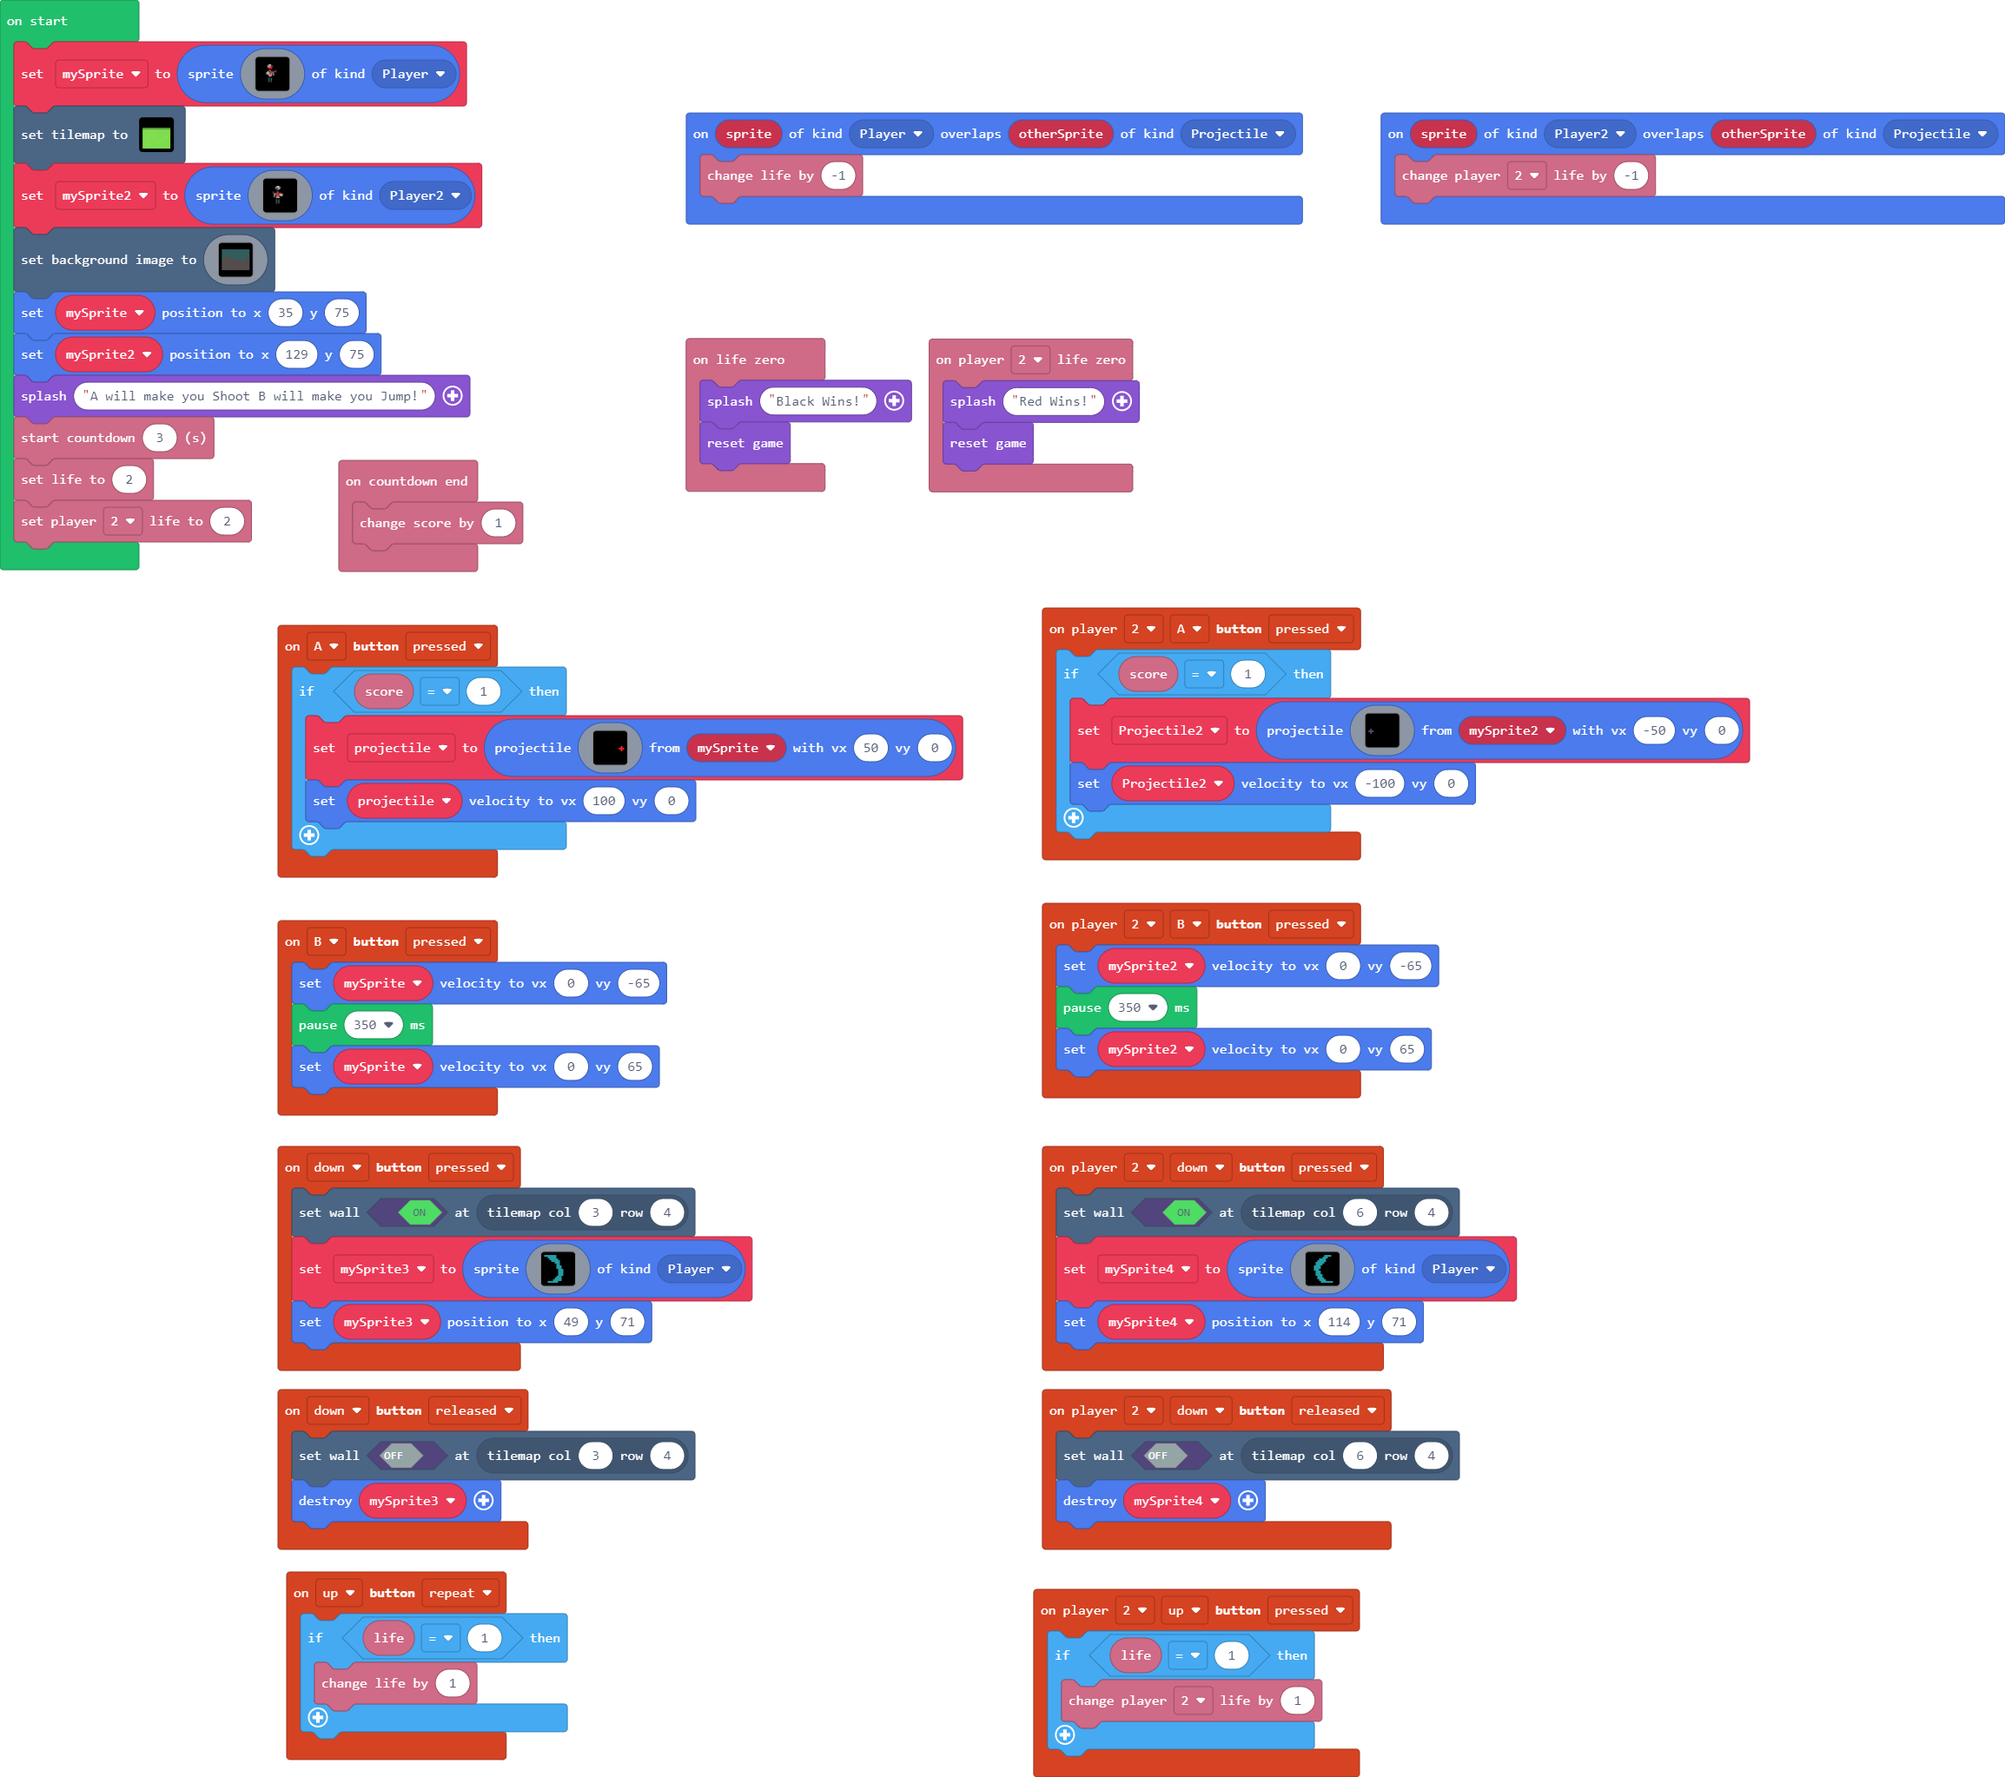
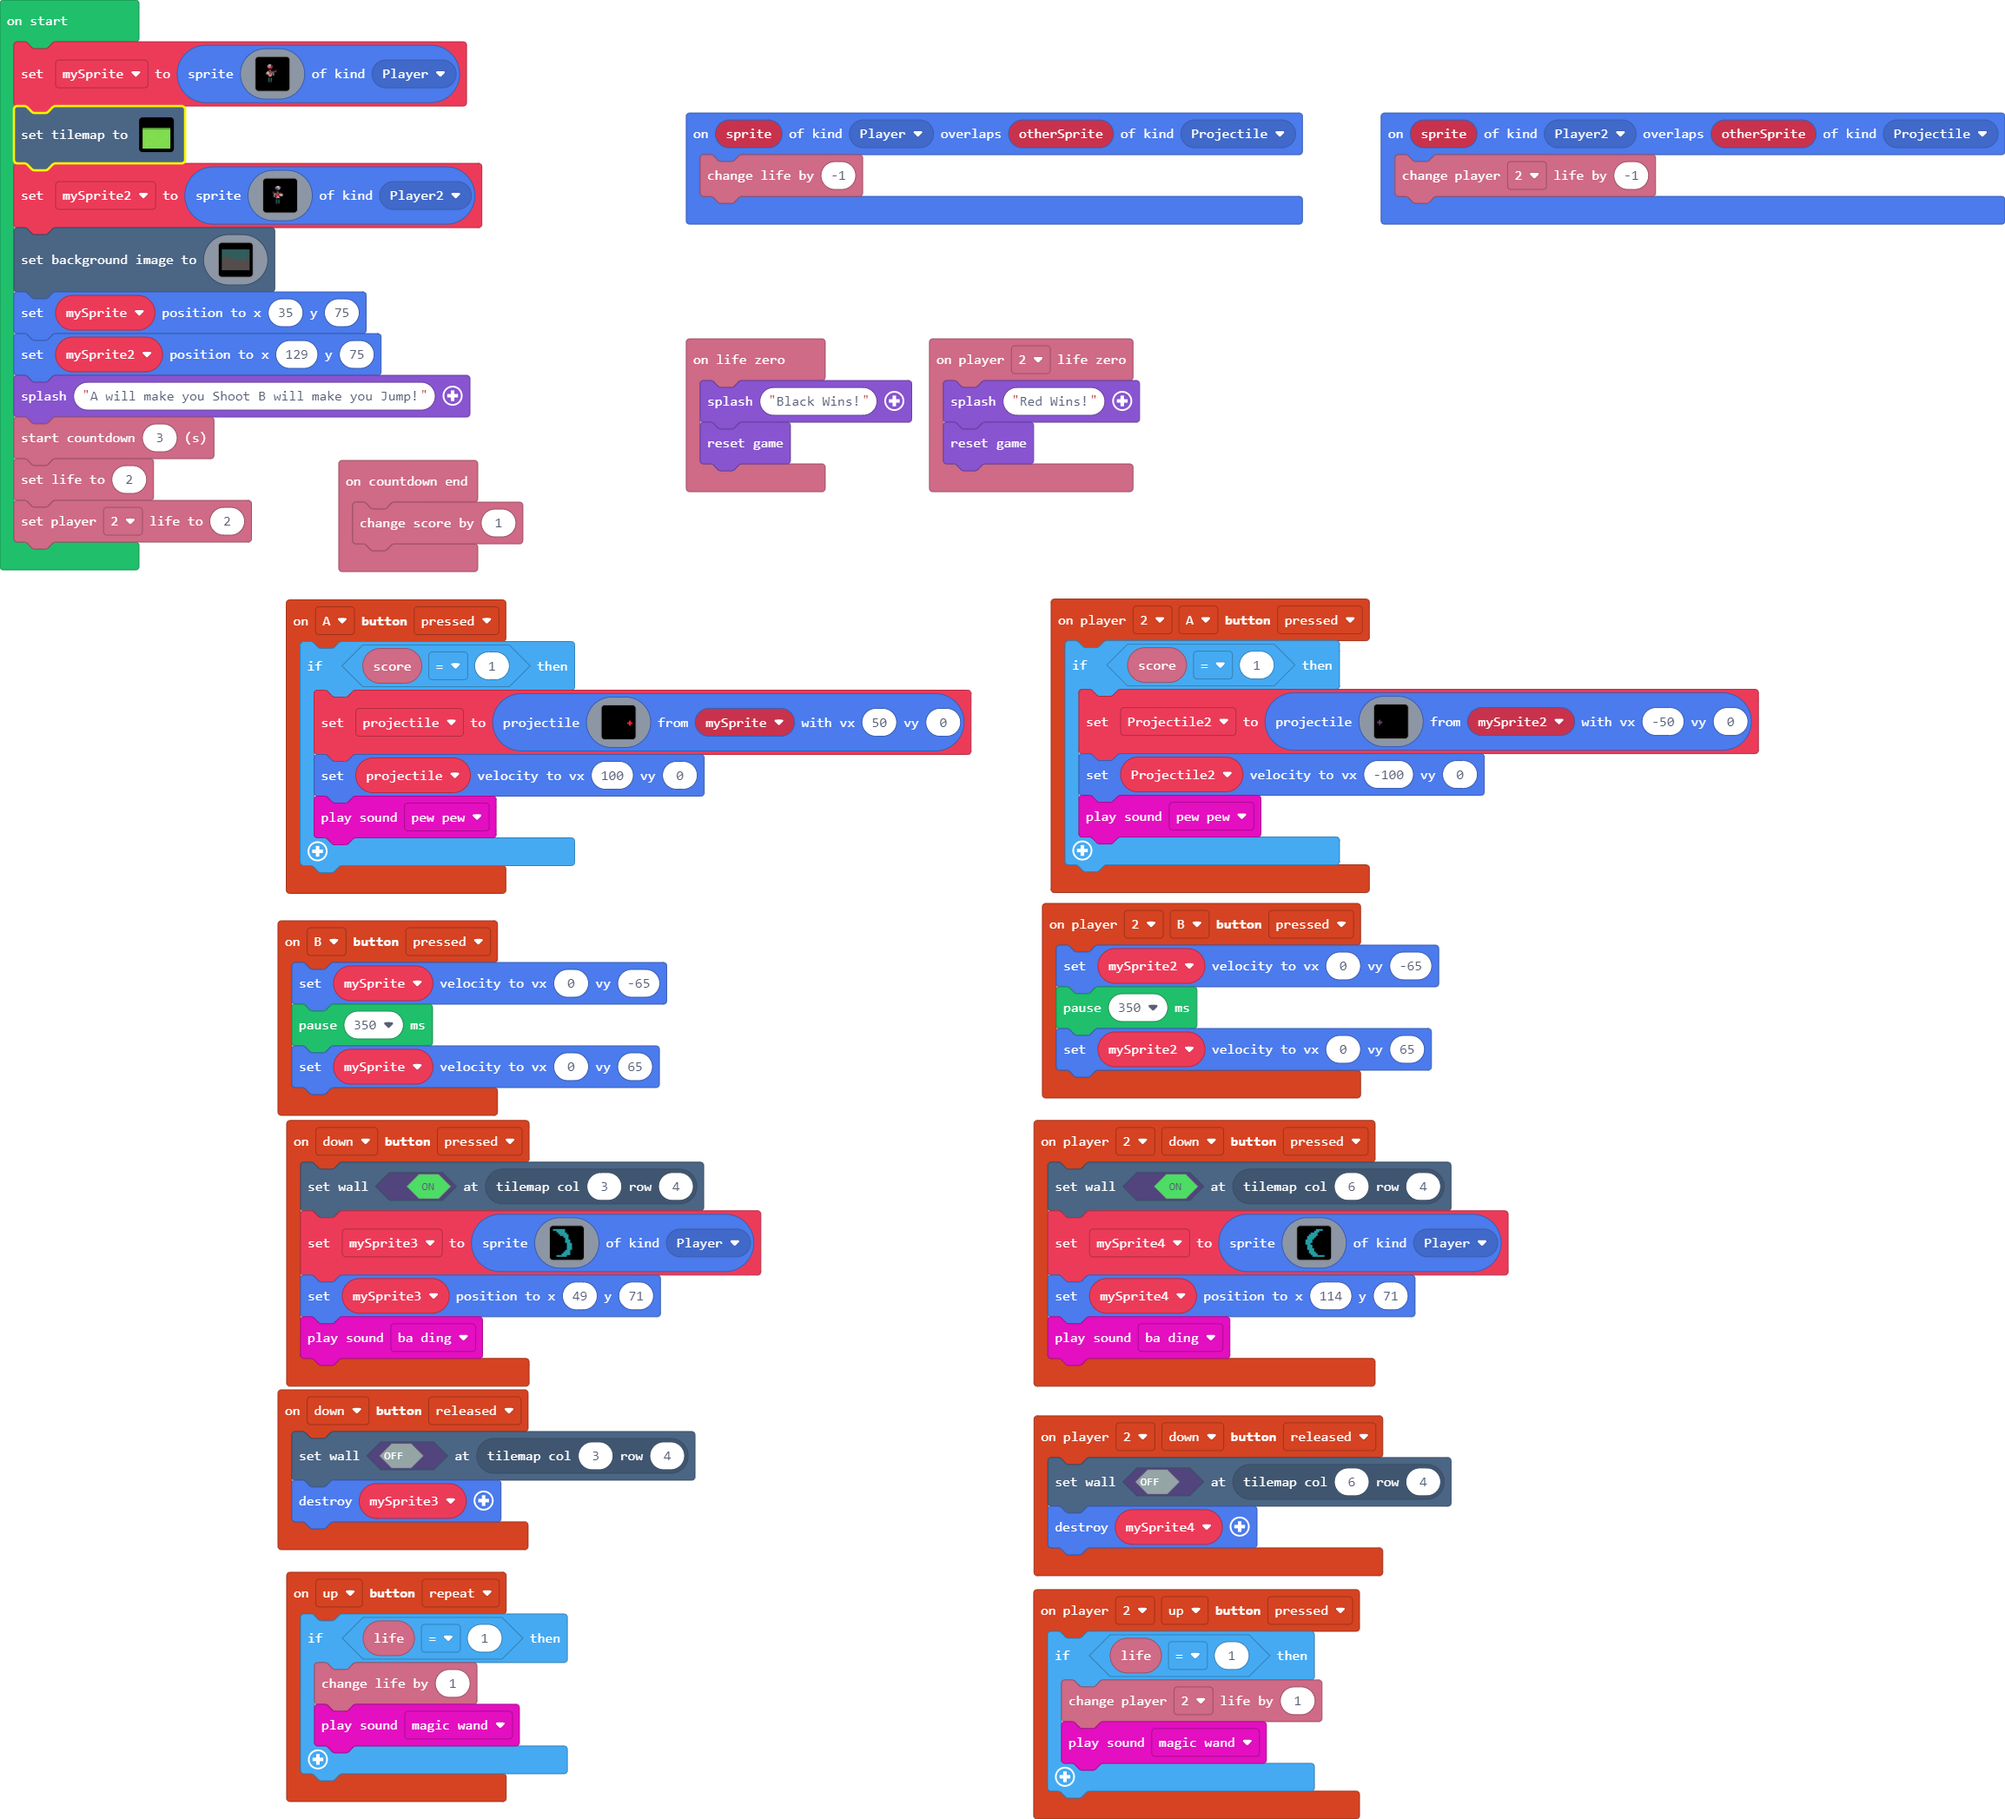
Update main.blocks, main.ts

diff --git a/main.ts b/main.ts
@@ -62,6 +62,7 @@ controller.down.onEvent(ControllerButtonEvent.Pressed, function () {
 . . 6 6 6 6 6 6 . . . . . . . . 
 `, SpriteKind.Player)
     mySprite3.setPosition(49, 71)
+    music.baDing.play()
 })
 controller.player2.onButtonEvent(ControllerButton.Down, ControllerButtonEvent.Pressed, function () {
     tiles.setWallAt(tiles.getTileLocation(6, 4), true)
@@ -84,6 +85,7 @@ controller.player2.onButtonEvent(ControllerButton.Down, ControllerButtonEvent.Pr
 . . . . . . . 6 6 6 6 6 6 6 . . 
 `, SpriteKind.Player)
     mySprite4.setPosition(114, 71)
+    music.baDing.play()
 })
 controller.B.onEvent(ControllerButtonEvent.Pressed, function () {
     mySprite.setVelocity(0, -65)
@@ -115,6 +117,7 @@ c c c . . . . . . . . . . . . .
 . . . . . . . . . . . . . . . . 
 `, mySprite2, -50, 0)
         Projectile2.setVelocity(-100, 0)
+        music.pewPew.play()
     }
 })
 info.player2.onLifeZero(function () {
@@ -145,11 +148,13 @@ controller.A.onEvent(ControllerButtonEvent.Pressed, function () {
 . . . . . . . . . . . . . . . . 
 `, mySprite, 50, 0)
         projectile.setVelocity(100, 0)
+        music.pewPew.play()
     }
 })
 controller.player2.onButtonEvent(ControllerButton.Up, ControllerButtonEvent.Pressed, function () {
     if (info.life() == 1) {
         info.player2.changeLifeBy(1)
+        music.magicWand.play()
     }
 })
 controller.player2.onButtonEvent(ControllerButton.B, ControllerButtonEvent.Pressed, function () {
@@ -163,6 +168,7 @@ sprites.onOverlap(SpriteKind.Player2, SpriteKind.Projectile, function (sprite, o
 controller.up.onEvent(ControllerButtonEvent.Repeated, function () {
     if (info.life() == 1) {
         info.changeLifeBy(1)
+        music.magicWand.play()
     }
 })
 info.onCountdownEnd(function () {
@@ -229,7 +235,7 @@ tiles.setTilemap(tiles.createTilemap(
 2 2 2 2 2 2 2 2 2 2 2 2 2 2 2 2 
 2 2 2 2 2 2 2 2 2 2 2 2 2 2 2 2 
 `,
-            [myTiles.tile0,sprites.castle.tileGrass1,sprites.castle.tileGrass3,sprites.castle.tileGrass2,sprites.castle.rock1,myTiles.tile2,sprites.castle.tilePath2],
+            [myTiles.tile0,sprites.castle.tileGrass1,sprites.castle.tileGrass3,sprites.castle.tileGrass2,sprites.castle.rock1,myTiles.tile2,sprites.castle.tilePath2,sprites.castle.rock2],
             TileScale.Sixteen
         ))
 mySprite2 = sprites.create(img`
